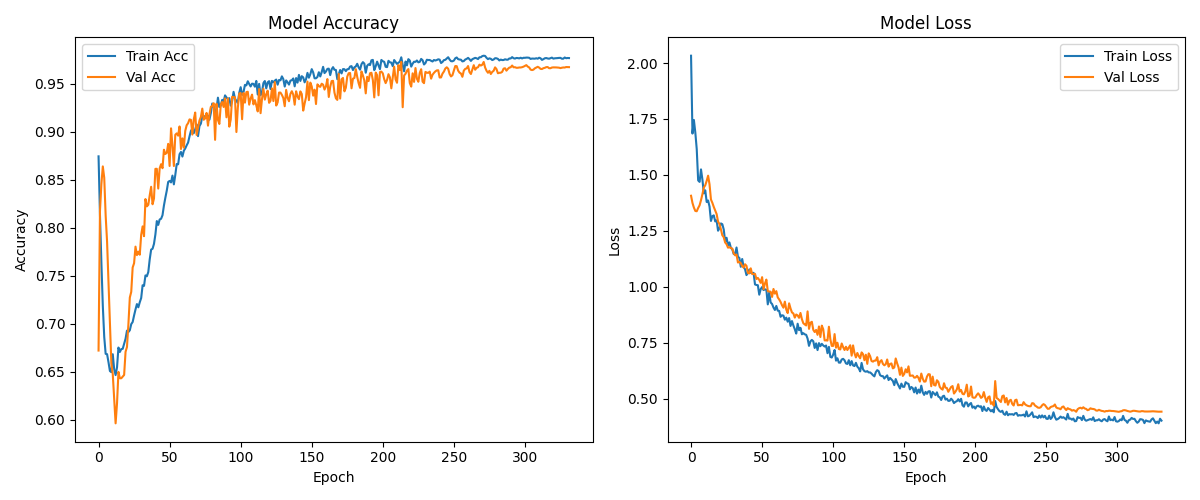
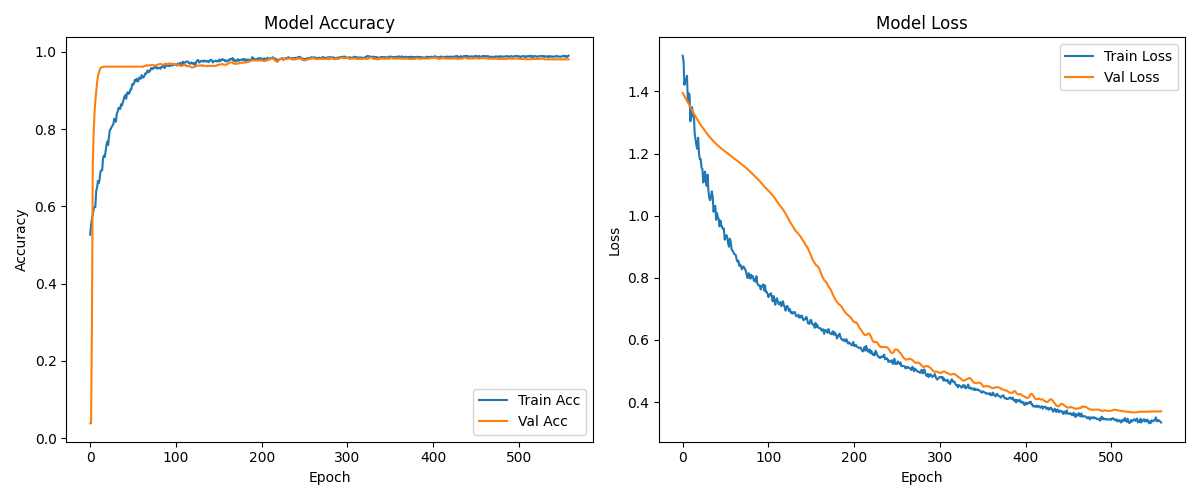
chnages added

diff --git a/train13.py b/train13.py
@@ -11,7 +11,6 @@ from tensorflow.keras.callbacks import ModelCheckpoint, ReduceLROnPlateau, Early
 from tensorflow.keras.optimizers import SGD, Adam
 from sklearn.metrics import precision_score, recall_score, f1_score, average_precision_score
 from TrainingVisualizer import TrainingVisualizer
-from sklearn.utils import class_weight
 
 
 class Train:
@@ -62,6 +61,11 @@ class Train:
         self.logger.debug(f"y_val True labels: {len(y_val[y_val == 1]) }")
         self.logger.debug(f"y_val False labels: {len(y_val[y_val == 0]) }")
 
+
+        class_weights = {0:10, 1:100}
+
+        self.logger.info(f"Class weights: {class_weights}")
+        
         y_train = to_categorical(y_train, 2)
         y_test = to_categorical(y_test, 2)
         y_val = to_categorical(y_val, 2)
@@ -79,17 +83,12 @@ class Train:
         modelBuilder = ModelBuilder(self.height, self.width)
         model = modelBuilder.model_summary()
         
-        model.compile(optimizer=Adam(learning_rate=0.001), loss='categorical_crossentropy', metrics=['accuracy'])
+        model.compile(optimizer=Adam(learning_rate=0.0001), loss='categorical_crossentropy', metrics=['accuracy'])
 
      
         self.logger.info("Training model...")
+        
 
-        y_train_labels = np.argmax(y_train, axis=1)
-
-     
-        weights = class_weight.compute_class_weight(class_weight='balanced', classes=np.unique(y_train_labels), y=y_train_labels)
-        class_weights = dict(enumerate(weights))
-        self.logger.info(f"Class weights: {class_weights}")
 
         checkpoint_cb = ModelCheckpoint(
             filepath=f"{MODEL_PATH_TENSOR_DIR}/{self.model_name}_best.h5",

diff --git a/net5.py b/net5.py
@@ -12,14 +12,14 @@ class ModelBuilder:
         matrix_input = Input(shape=(self.height, self.width, 1))
 
         # First Conv Block
-        x = layers.Conv2D(16, kernel_size=(3, 3), activation='tanh', padding='same',
+        x = layers.Conv2D(16, kernel_size=(3, 3), activation='relu', padding='same',
                           kernel_regularizer=l2_reg, bias_regularizer=l2_reg)(matrix_input)
         x = layers.BatchNormalization()(x)
         x = layers.Dropout(0.3)(x)
         x = layers.MaxPooling2D(pool_size=(2, 2))(x)
 
         # Second Conv Block
-        x = layers.Conv2D(32, kernel_size=(3, 3), activation='tanh', padding='same',
+        x = layers.Conv2D(32, kernel_size=(3, 3), activation='relu', padding='same',
                           kernel_regularizer=l2_reg, bias_regularizer=l2_reg)(x)
         x = layers.BatchNormalization()(x)
         x = layers.Dropout(0.3)(x)

diff --git a/net3.py b/net3.py
@@ -13,9 +13,9 @@ class ModelBuilder:
         x = layers.Conv2D(5, kernel_size=(2, 2), activation='relu')(x)
         x = layers.MaxPooling2D(pool_size=(2, 2))(x)
         x = layers.Conv2D(10, kernel_size=(2, 2), activation='relu')(x)
-        x = layers.Flatten()(x)
         x = layers.Dense(10)(x)
         x = layers.Dropout(rate=0.2)(x)
+        x = layers.Flatten()(x)
         output = layers.Dense(2, activation='softmax')(x)
 
         return Model(inputs=matrix_input, outputs=output)
